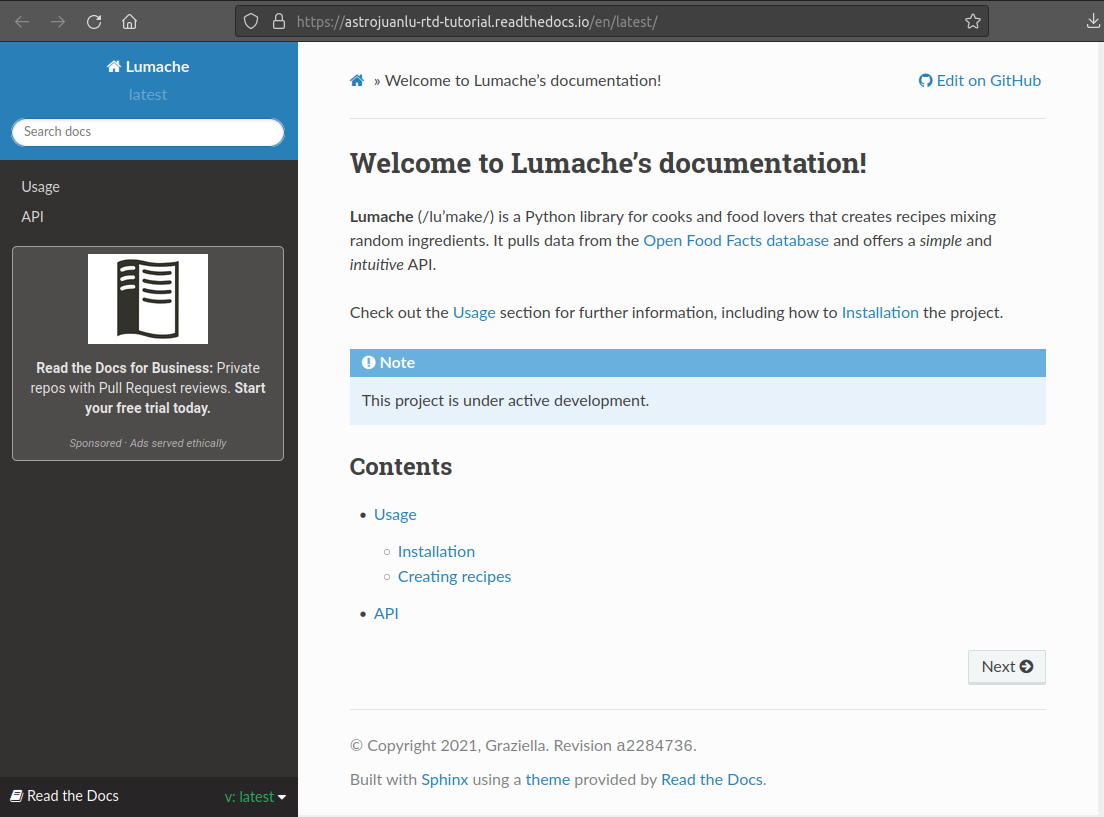
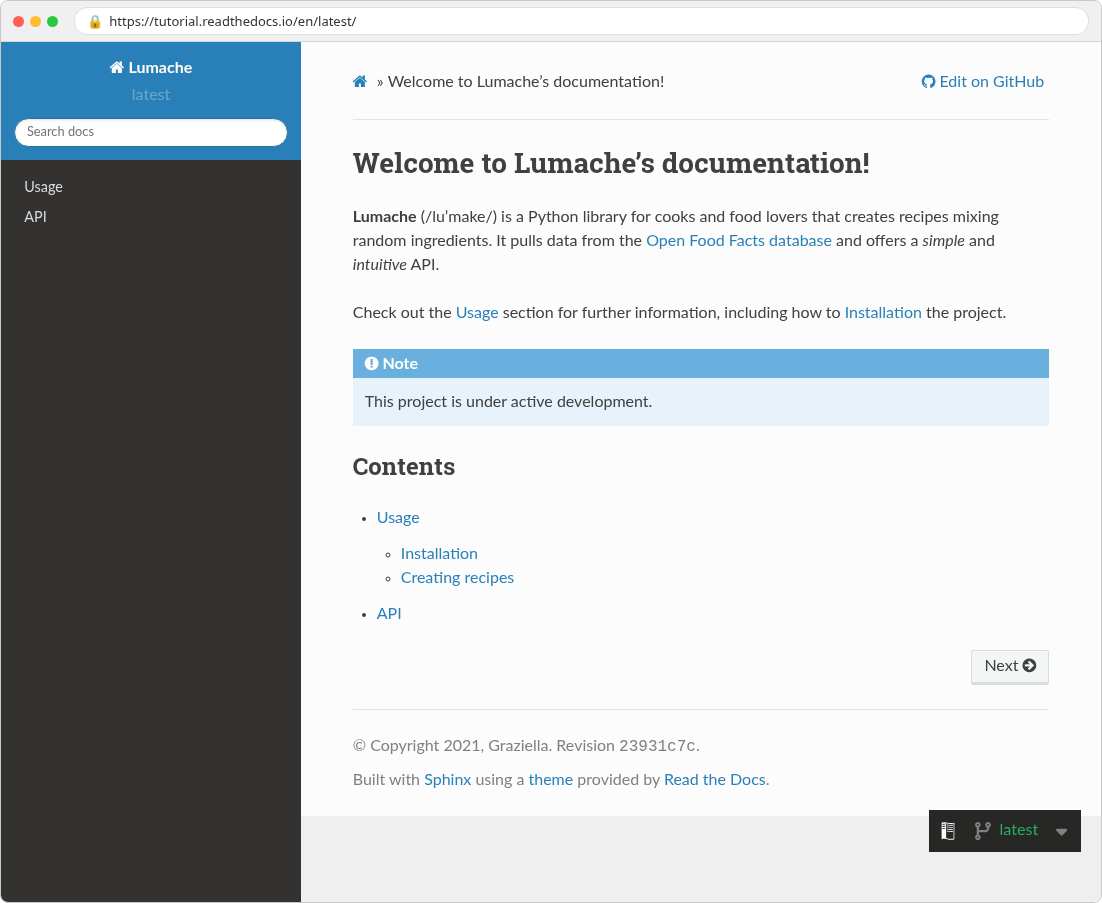
More updates

diff --git a/docs/user/tutorial/index.rst b/docs/user/tutorial/index.rst
@@ -318,12 +318,14 @@ and you will see several warnings:
 
 .. code-block:: text
 
-   WARNING: [autosummary] failed to import 'lumache': no module named lumache
+   WARNING: [autosummary] failed to import lumache.
    ...
-   WARNING: autodoc: failed to import function 'get_random_ingredients' from module 'lumache'; the following exception was raised:
-   No module named 'lumache'
-   WARNING: autodoc: failed to import exception 'InvalidKindError' from module 'lumache'; the following exception was raised:
-   No module named 'lumache'
+   WARNING: autodoc: failed to import 'get_random_ingredients' from module 'lumache'; the following exception was raised:
+   ...
+   ModuleNotFoundError: No module named 'lumache'
+   WARNING: autodoc: failed to import 'InvalidKindError' from module 'lumache'; the following exception was raised:
+   ...
+   ModuleNotFoundError: No module named 'lumache'
 
 To spot these warnings more easily and help you to address them,
 add the ``sphinx.fail_on_warning`` option to your Read the Docs configuration file.
